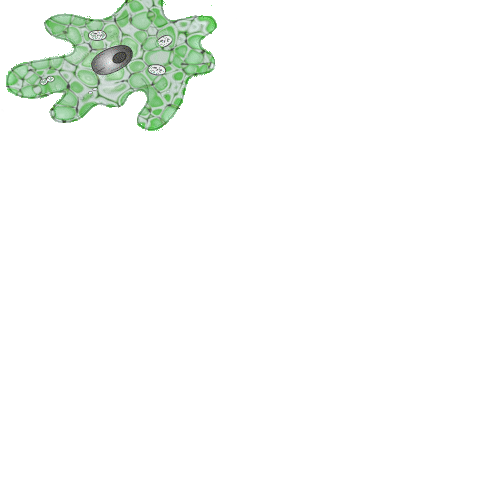
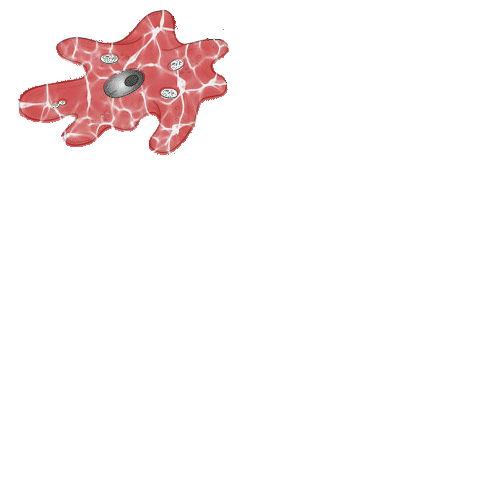
perfezionate immagini

Changed region(s): [[0.0, 0.0, 0.48, 0.33]]

diff --git a/template/Interfaccia.html b/template/Interfaccia.html
@@ -39,6 +39,8 @@
 			}
 			td {
 				background: white;
+				font-size: 12px;
+				font-weight: : 700;
 				text-align: center;
 				vertical-align: middle;
 				width: calc((70vw / {{.larghezza}}) - 3px);
@@ -57,8 +59,8 @@
 				padding: 0px;
 			}
 			.razza2 {
-				background-image: url("/static/cellaRossa.png");
-				background-size: 200% 400%;
+				background-image: url("/static/prova1.png");
+				background-size: 180% 300%;
 				padding: 0px;
 			}
 			div.tabella {
